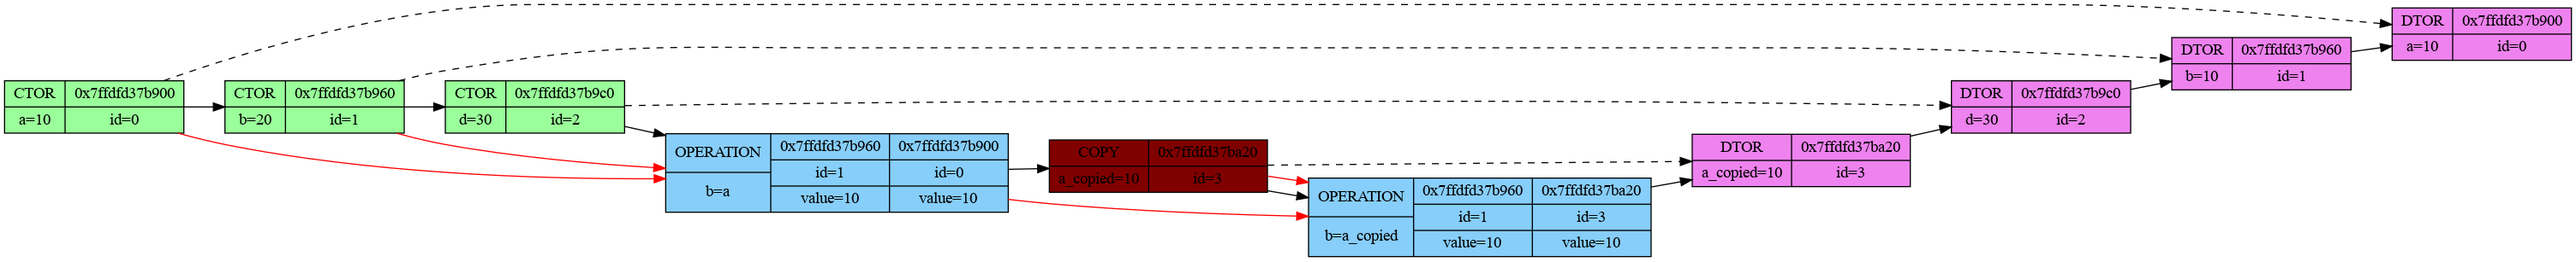
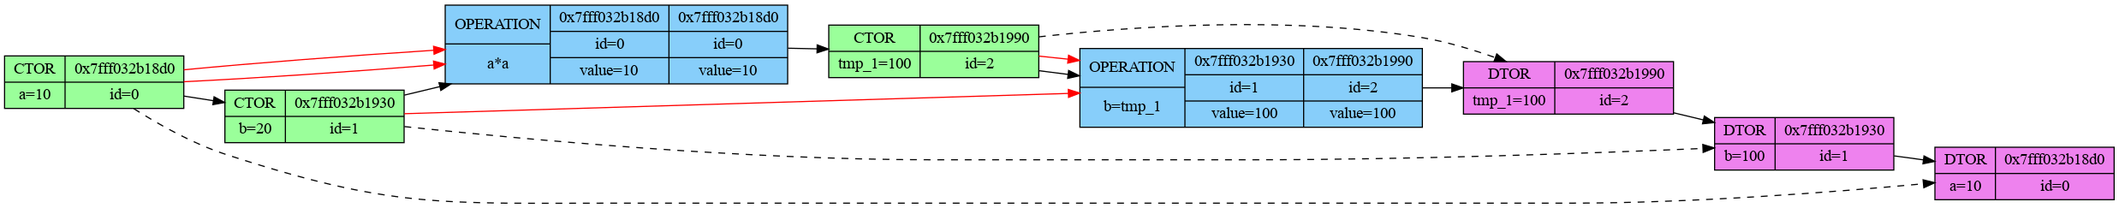
Fixed generator .dot file

diff --git a/Dumping_int/dump.html b/Dumping_int/dump.html
@@ -9,65 +9,53 @@ P {
 
 <p><font size="3" color="green">[Calling_trace] CTOR Int::Int(int, std::string)
 </font>
-	<font size="3" color="green">└──>[0x7ffdfd37b900]: id = 0, a=10
+	<font size="3" color="green">└──>[0x7fff032b18d0]: id = 0, a=10
 </font>
 <font size="3" color="green">
 </font>
 <font size="3" color="green">[Calling_trace] CTOR Int::Int(int, std::string)
 </font>
-	<font size="3" color="green">└──>[0x7ffdfd37b960]: id = 1, b=20
+	<font size="3" color="green">└──>[0x7fff032b1930]: id = 1, b=20
 </font>
 <font size="3" color="green">
 </font>
-<font size="3" color="green">[Calling_trace] CTOR Int::Int(int, std::string)
+<font size="3" color="darkcyan">[Calling_trace] OPERATION const Int Int::operator*(const Int&) const
 </font>
-	<font size="3" color="green">└──>[0x7ffdfd37b9c0]: id = 2, d=30
+	<font size="3" color="darkcyan">└──>[0x7fff032b18d0]: left  id = 0, a=10
+</font>
+	<font size="3" color="darkcyan">└──>[0x7fff032b18d0]: right id = 0, a=10
+</font>
+<font size="3" color="darkcyan">
+</font>
+	<font size="3" color="green">[Calling_trace] CTOR Int::Int(int, std::string)
+</font>
+		<font size="3" color="green">└──>[0x7fff032b1990]: id = 2, tmp_1=100
 </font>
 <font size="3" color="green">
 </font>
 <font size="3" color="darkcyan">[Calling_trace] OPERATION Int& Int::operator=(const Int&)
 </font>
-	<font size="3" color="darkcyan">└──>[0x7ffdfd37b960]: from id = 1, b=10
+	<font size="3" color="darkcyan">└──>[0x7fff032b1930]: from id = 1, b=100
 </font>
-	<font size="3" color="darkcyan">└──>[0x7ffdfd37b900]: to   id = 0, a=10
-</font>
-<font size="3" color="darkcyan">
-</font>
-<font size="3" color="red">[Calling_trace] COPY Int::Int(const Int&)
-</font>
-	<font size="3" color="red">└──>[0x7ffdfd37ba20]: id = 3, a_copied=10
-</font>
-<font size="3" color="red">
-</font>
-<font size="3" color="darkcyan">[Calling_trace] OPERATION Int& Int::operator=(const Int&)
-</font>
-	<font size="3" color="darkcyan">└──>[0x7ffdfd37b960]: from id = 1, b=10
-</font>
-	<font size="3" color="darkcyan">└──>[0x7ffdfd37ba20]: to   id = 3, a_copied=10
+	<font size="3" color="darkcyan">└──>[0x7fff032b1990]: to   id = 2, tmp_1=100
 </font>
 <font size="3" color="darkcyan">
 </font>
 <font size="3" color="purple">[Calling_trace] DTOR Int::~Int()
 </font>
-	<font size="3" color="purple">└──>[0x7ffdfd37ba20]: id = 3, a_copied=10
+	<font size="3" color="purple">└──>[0x7fff032b1990]: id = 2, tmp_1=100
 </font>
 <font size="3" color="purple">
 </font>
 <font size="3" color="purple">[Calling_trace] DTOR Int::~Int()
 </font>
-	<font size="3" color="purple">└──>[0x7ffdfd37b9c0]: id = 2, d=30
+	<font size="3" color="purple">└──>[0x7fff032b1930]: id = 1, b=100
 </font>
 <font size="3" color="purple">
 </font>
 <font size="3" color="purple">[Calling_trace] DTOR Int::~Int()
 </font>
-	<font size="3" color="purple">└──>[0x7ffdfd37b960]: id = 1, b=10
-</font>
-<font size="3" color="purple">
-</font>
-<font size="3" color="purple">[Calling_trace] DTOR Int::~Int()
-</font>
-	<font size="3" color="purple">└──>[0x7ffdfd37b900]: id = 0, a=10
+	<font size="3" color="purple">└──>[0x7fff032b18d0]: id = 0, a=10
 </font>
 <font size="3" color="purple">
 </font>

diff --git a/Dumping_int/Dumper/graph_dumper.cpp b/Dumping_int/Dumper/graph_dumper.cpp
@@ -43,12 +43,23 @@ void Graph_dumper::dump(const Int& left_object, const Int_signal int_signal, con
 
 	if(int_signal >= Int_signal::MORE && int_signal <= Int_signal::ASSIGNMENT)
 		type = Type_functions::OPERATION;
+	else
+	if(int_signal == Int_signal::COPY)
+		type = Type_functions::COPY;
 	else { printf("[Graph_dumper] [dump(..., ..., ...) signal %d]\n", (int)int_signal); return; }
 
-	fprintf(dumper, "\tnode%ld%s%ld [shape=\"record\", style=\"filled\", fillcolor=\"%s\", label=\"{{%s | %s%s%s}|{%p | id=%ld | value=%d}|{%p | id=%ld | value=%d}}\"]\n",
+	if(type != Type_functions::COPY)
+		fprintf(dumper, "\tnode%ld%s%ld [shape=\"record\", style=\"filled\", fillcolor=\"%s\", label=\"{{%s | %s%s%s}|{%p | id=%ld | value=%d}|{%p | id=%ld | value=%d}}\"]\n",
 					left_object.get_id(), char_type_functions[(int)type], right_object.get_id(), colours_text[(int)colour],
 					char_type_functions[(int)type], left_object.get_name().c_str(), signals[(int)int_signal],
 					right_object.get_name().c_str(),
+					&left_object, left_object.get_id(), left_object.get_value(),
+					&right_object, right_object.get_id(), right_object.get_value());
+
+	else
+		fprintf(dumper, "\tnode%ld%s  [shape=\"record\", style=\"filled\", fillcolor=\"%s\" label=\"{{%s | %s}|{%p | id=%ld | value=%d}|{%p | id=%ld | value=%d}}\"]\n",
+					left_object.get_id(), char_type_functions[(int)type], colours_text[(int)colour],
+					char_type_functions[(int)type], left_object.get_name().c_str(),
 					&left_object, left_object.get_id(), left_object.get_value(),
 					&right_object, right_object.get_id(), right_object.get_value());
 
@@ -65,10 +76,11 @@ void Graph_dumper::dump(const Int& left_object, const Int_signal int_signal, con
 }
 
 void Graph_dumper::print_node(const Node_identity* node, Console_colours colour = Console_colours::RESET) {
-	if(node->is_binary)
+	if(node->is_binary && node->type != Type_functions::COPY)
 		fprintf(dumper, "node%ld%s%ld", node->left_id, char_type_functions[(int)node->type], node->right_id);
-	else
+	else {
 		fprintf(dumper, "node%ld%s", node->left_id, char_type_functions[(int)node->type]);
+	}
 
 	if(colour != Console_colours::RESET)
 		fprintf(dumper, "[]");
@@ -106,22 +118,24 @@ void Graph_dumper::add_ctor_dtor_arrows(const Int& object, Node_identity* node, 
 }
 
 void Graph_dumper::add_operation_arrows(const Int& left_object, const Int_signal int_signal, const Int& right_object, Node_identity& now_node) {
-	fprintf(dumper, "\t");
-	print_node(&left_object.last_operation);
+	// left -> now
+	add_one_operation_arrow(left_object, int_signal, now_node);
 
-	fprintf(dumper, " -> ");
-	print_node(&now_node);
+	// right -> now
+	add_one_operation_arrow(right_object, int_signal, now_node);
+}
 
-	fprintf(dumper, "[color=\"red\"]\n");
+void Graph_dumper::add_one_operation_arrow(const Int& object, const Int_signal int_signal, Node_identity& now_node) {
+	if(int_signal != Int_signal::COPY || int_signal == Int_signal::COPY && object.get_is_copy_anyone() == false) {
+		fprintf(dumper, "\t");
+		print_node(&object.last_operation);
 
-	fprintf(dumper, "\t");
-	print_node(&right_object.last_operation);
+		fprintf(dumper, " -> ");
+		print_node(&now_node);
 
-	fprintf(dumper, " -> ");
-	print_node(&now_node);
-
-	fprintf(dumper, "[color=\"red\"]\n");
-} // need last object operation!!
+		fprintf(dumper, "[color=\"red\"]\n");
+	}
+}
 
 Graph_dumper::~Graph_dumper() {
 	fprintf(dumper, "}\n");

diff --git a/Dumping_int/Int/my_int.cpp b/Dumping_int/Int/my_int.cpp
@@ -65,10 +65,12 @@ Int::Int(const Int &other) {
 	parent = Dumper::get_dumper();
 
 	REFRESH_UNARY(this, *this, Int_signal::CONSTRUCT)
-	REFRESH_UNARY(this, *this, Int_signal::COPY)
+	// REFRESH_UNARY(this, *this, Int_signal::COPY)
+	REFRESH_BINARY(this, *this, Int_signal::COPY, other)
 
 	if(parent)
-		parent->signal(*this, Int_signal::COPY);
+		parent->signal(*this, Int_signal::COPY, other);
+		// parent->signal(*this, Int_signal::COPY);
 }
 
 Int::Int(const int arg_value, const std::string arg_name) {

diff --git a/Dumping_int/Dumper/graph_dumper.h b/Dumping_int/Dumper/graph_dumper.h
@@ -54,6 +54,7 @@ public:
 	void add_ctor_dtor_arrows(const Int& object, Node_identity* node, Int_signal int_signal);
 
 	void add_operation_arrows(const Int& left_object, const Int_signal int_signal, const Int& right_object, Node_identity& now_node);
+	void add_one_operation_arrow(const Int& object, const Int_signal int_signal, Node_identity& now_node);
 
 	~Graph_dumper();
 };

diff --git a/Dumping_int/Tests/testing.cpp b/Dumping_int/Tests/testing.cpp
@@ -5,7 +5,7 @@
 #define VAR(type, name, value) type name(value, #name)
 
 Int nothing(Int& var) {
-	return var;
+	return var * var;
 }
 
 void testing() {
@@ -13,11 +13,11 @@ void testing() {
 
 	VAR(Int, a, 10);
 	VAR(Int, b, 20);
-	VAR(Int, d, 30);
+	// VAR(Int, d, 30);
 
 	printf("\n");
 
-	b = a;
+	// b = a;
 	b = nothing(a);
 
 	// VAR(Int, c, 0);

diff --git a/Dumping_int/Dumper/int_dumping.h b/Dumping_int/Dumper/int_dumping.h
@@ -95,7 +95,6 @@ class Dumper : public Signals_default_handler {
 		Console_colours colour = get_colour(int_signal);
 		
 		graph_dumper->dump(sender, int_signal, other, colour);
-		printf("COLOUR %s, id %d\n", colours_text[(int)colour], (int)colour);
 
 		char first[MAX_SIZE], second[MAX_SIZE];
 
